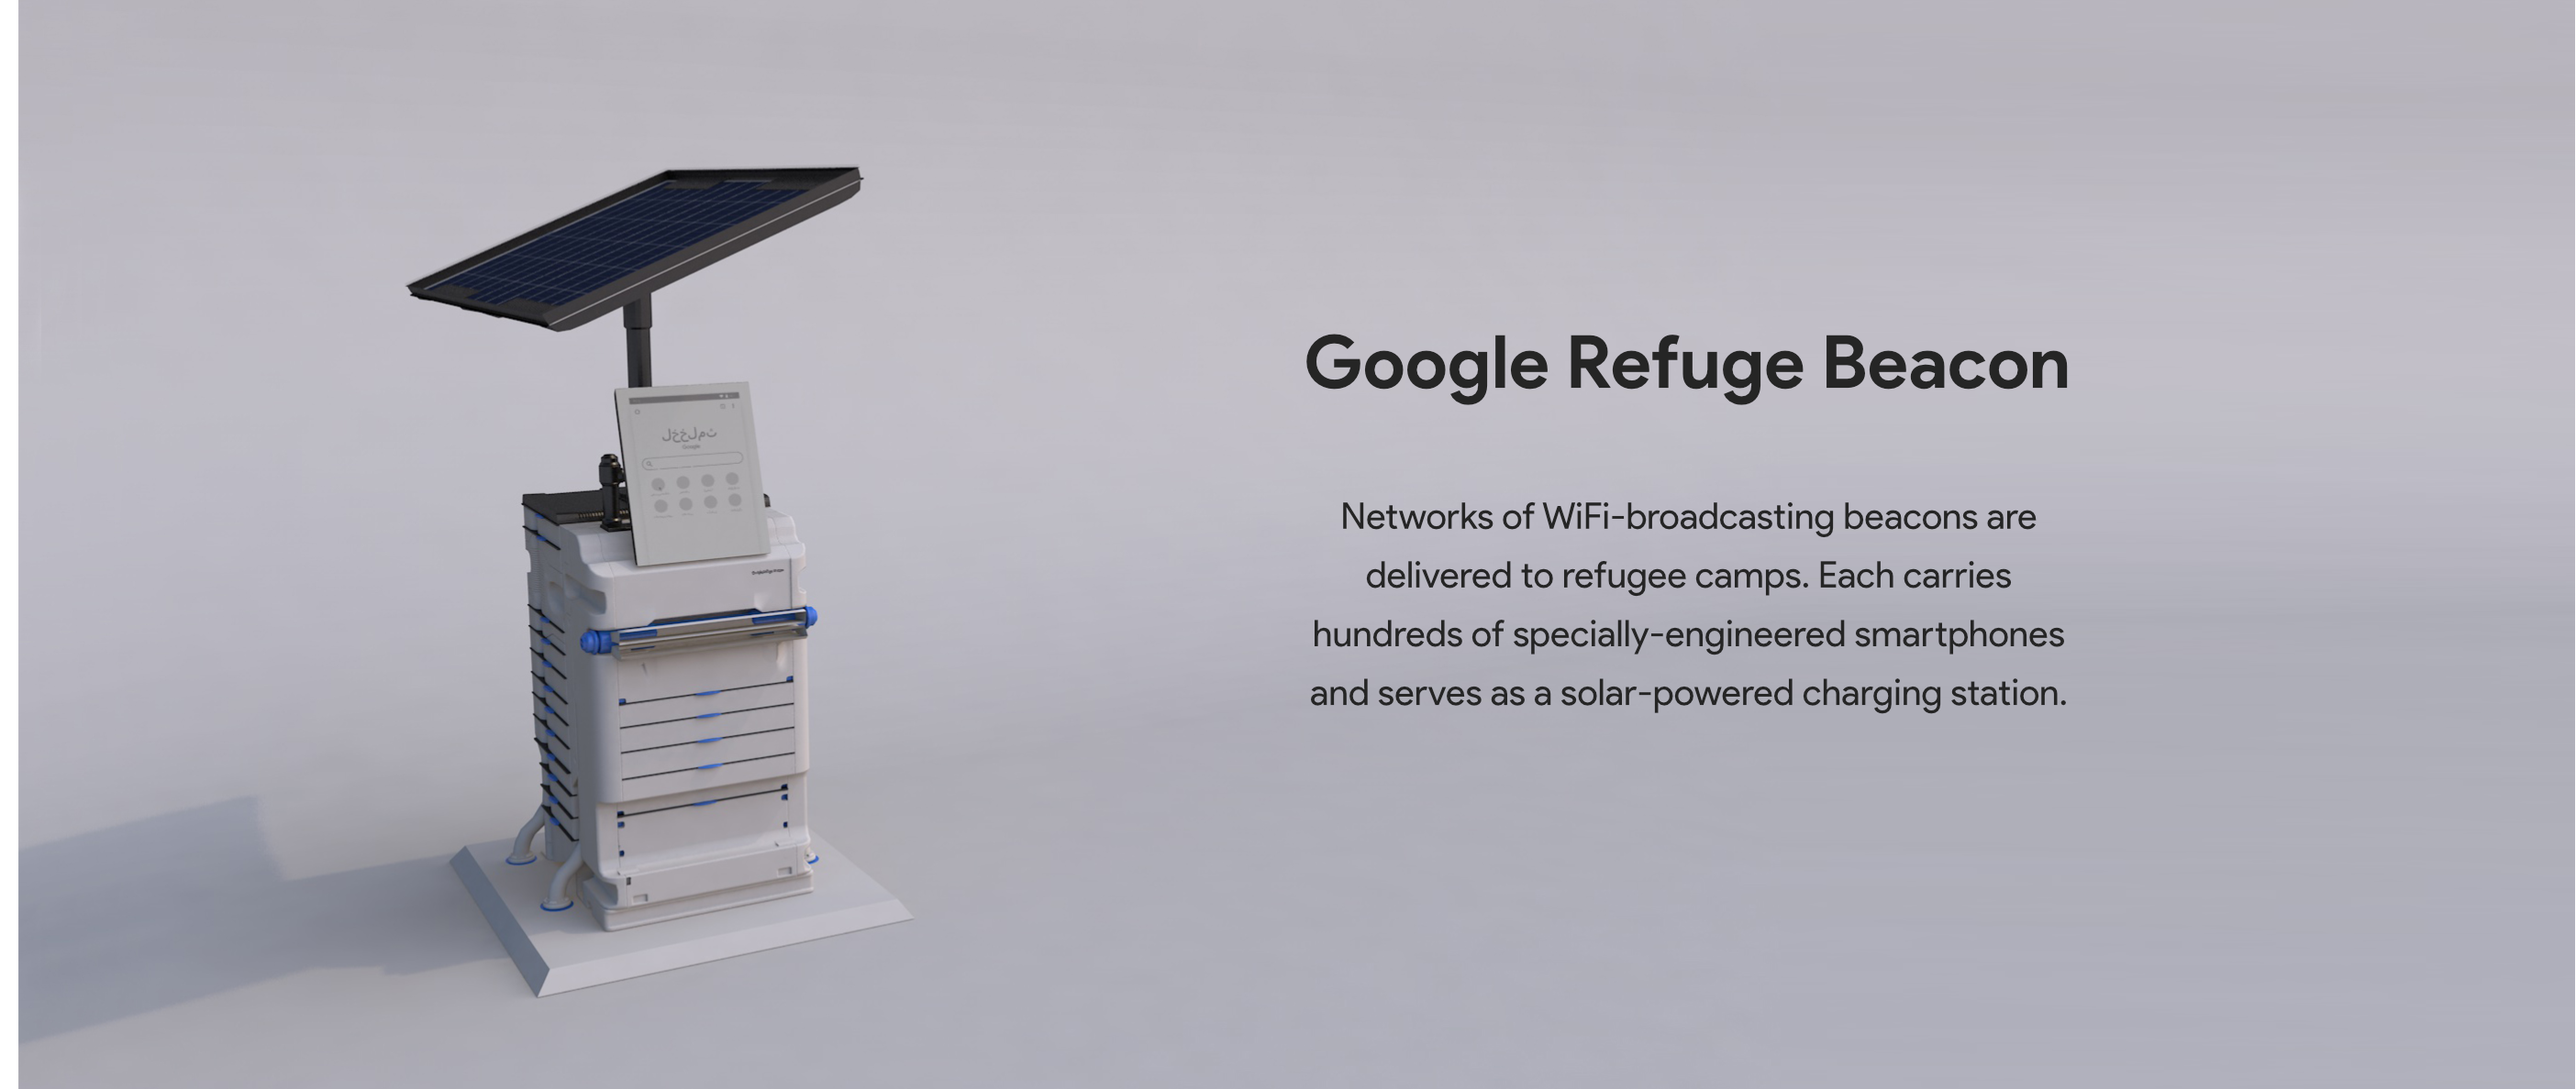
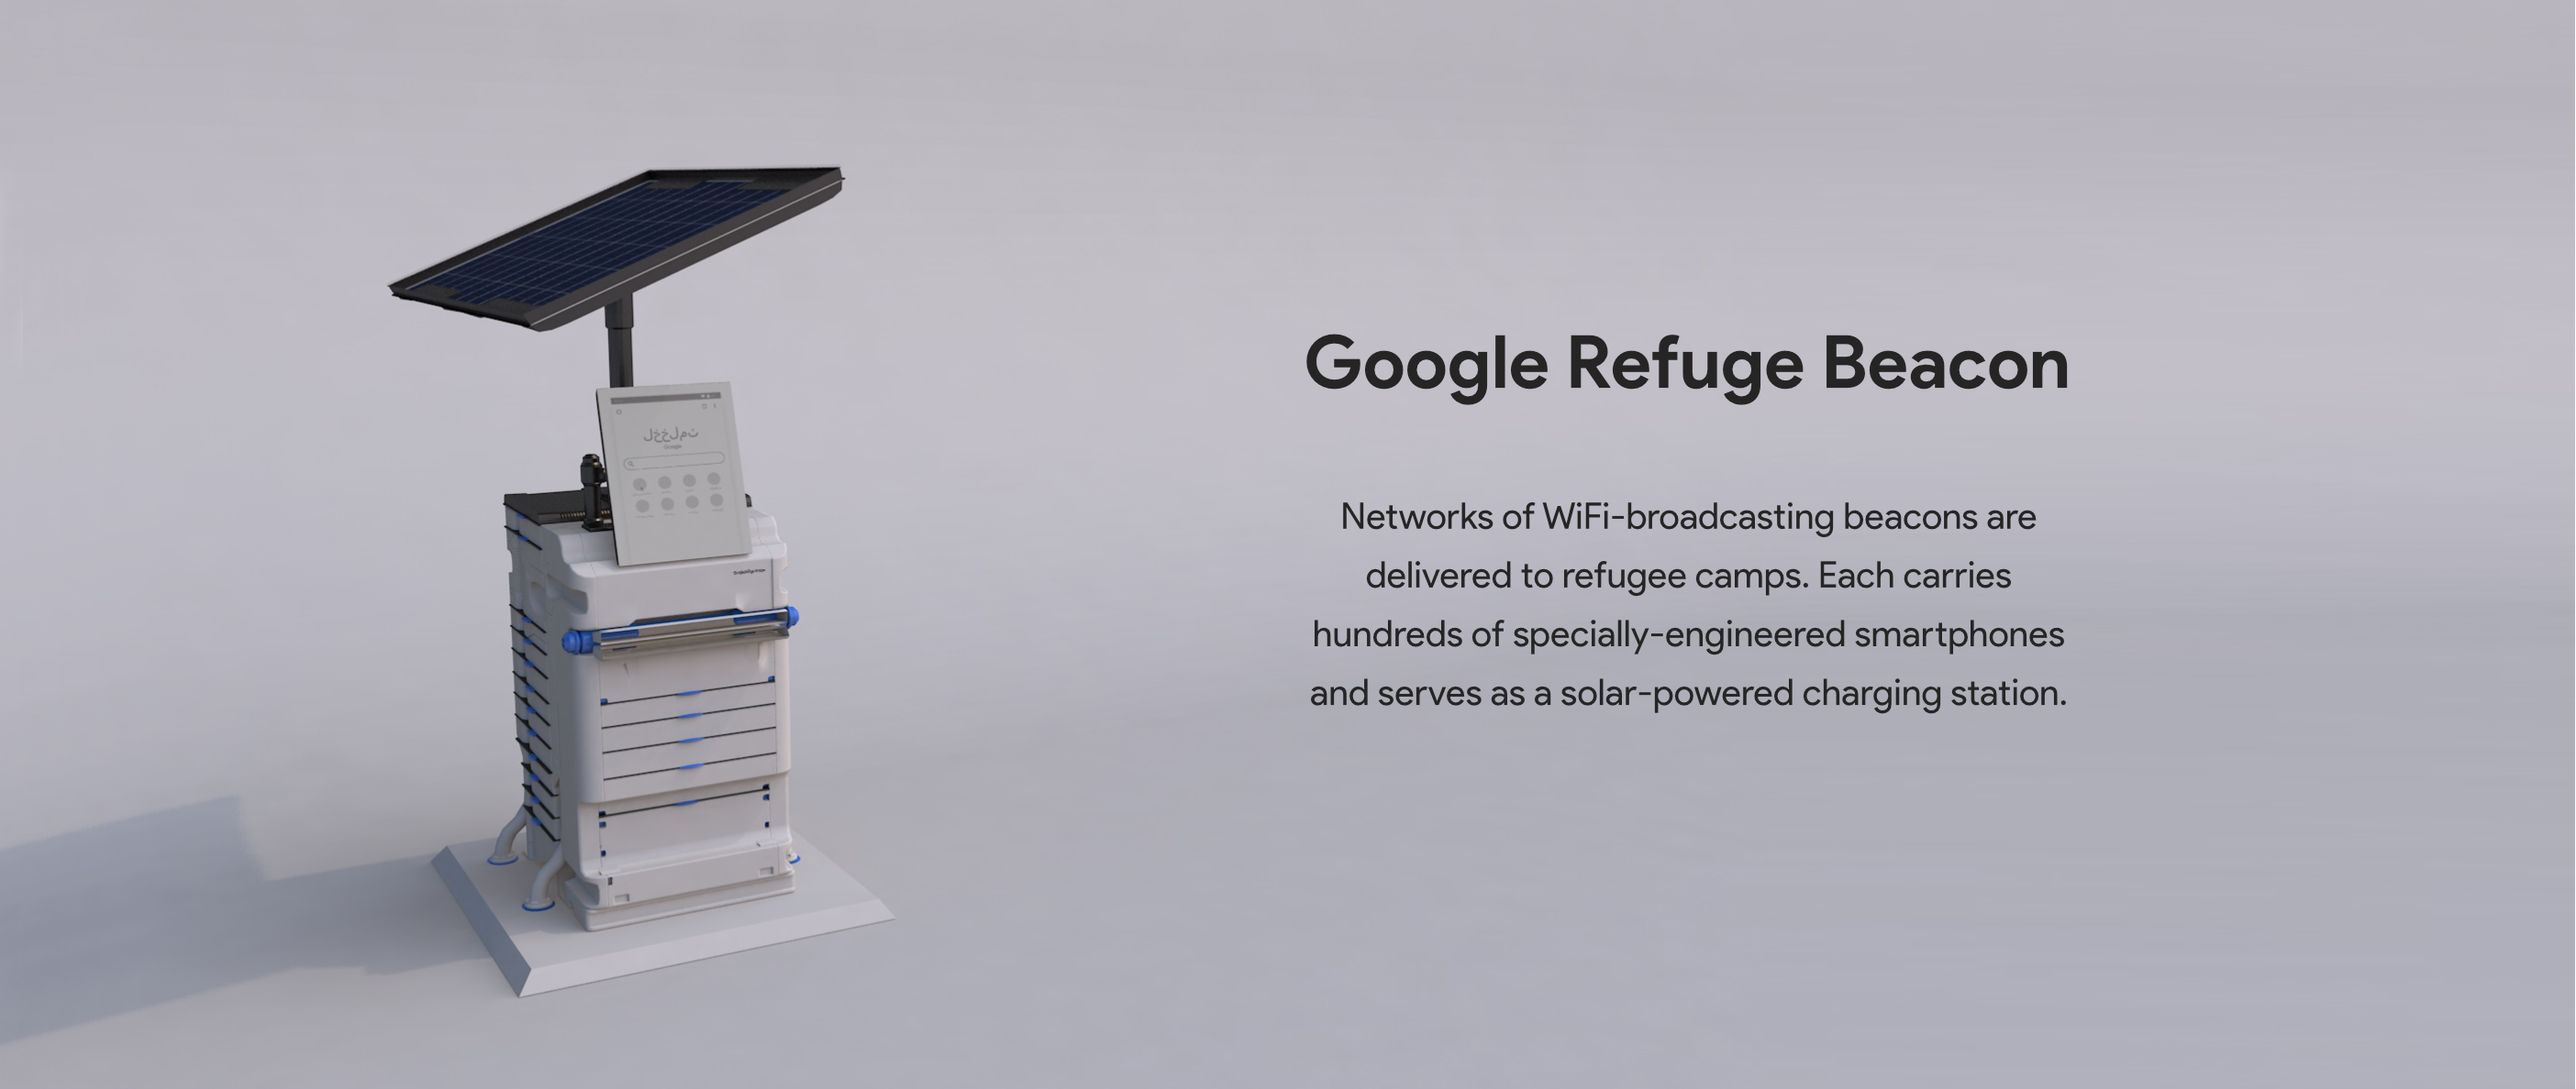
mm

Changed region(s): [[0.1549, 0.1557, 0.3408, 0.9343], [0.0, 0.0, 0.031, 1.0]]

diff --git a/google/css/style.css b/google/css/style.css
@@ -497,7 +497,7 @@ h1, h2, h3, h4, h5, h6 {
 /* Beacon Section
 --------------------------------*/
 #beacon {
-  padding: 30px 0;
+  padding: 30px 0 0 0;
 }
 #beacon .container{
   background: url("../img/theBeacon.png");
